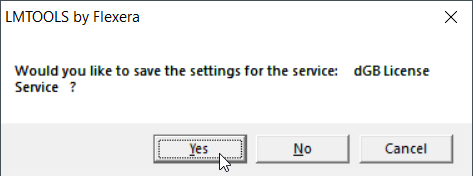
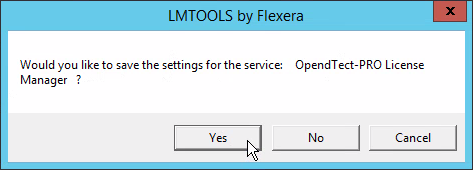
Admindoc flexnet lic server update
Updated install flexnet license server docuementation for Linux and Windows + the open ports chapter

diff --git a/admindoc/Content/Installation/License_server/Installing-license-server-on-Windows.htm b/admindoc/Content/Installation/License_server/Installing-license-server-on-Windows.htm
@@ -14,16 +14,17 @@
         <p>The FlexNet vendor package with the binaries that are needed can be downloaded from the <a href="https://dgbes.com/index.php/download/flexnet-vendors-packages" target="_blank">FlexNet Vendor Packages download page</a>.</p>
         <ol>
             <li>Download the <a href="https://download.opendtect.org/flexnet/dGB/v6.4-and-newer/flexnet11.18.3.1-dgb-win64.zip" target="_blank">Windows 64 (FlexNet v11.18.3.1) zip-file</a> for OpendTect Pro &amp; dGB&#160;Plugins for OpendTect 6.4 and newer. <br /><br /></li>
-            <li>Create a directory on the server that is to be used as license server for OpendTect. E.g. create the directory <i>C:\dgb_licserver</i>. <br /><br /></li>
+            <li>Create a directory on the server that is to be used as license server for OpendTect. E.g. create the directory <i>C:\Program Files\FlexLM Licensing Server\OpendTect</i>. <br /><br /></li>
             <li>Unzip the zip-file in the directory that has been created in previous step.<br /><br /></li>
             <li>The zip-file has the following files:<br /><b>dgbld.exe</b> :&#160;The dGB vendor daemon<br /><b>lmgrd.exe</b> :&#160;The FlexNet license  manager daemon <br /><b>lmtools.exe</b> : The FlexNet LMTOOLS utility<br /><b>lmutil.exe</b> :&#160;The FlexNet license management utilities<br /><br /></li>
-            <li>Create in the directory a new text document and name it <i>debug.log</i>.<br /><br /></li>
-            <li>The next thing that is needed is the server license file. This license file will be provided by the dGB support via support@dgbes.com.<br />Best is to place the license file in the same directory. <br /><br /></li>
-            <li>Now the license file needs to be edited. Hence, open the license file with a text editor like Notepad or Vim. <br /><br /></li>
-            <li>In the top of the license file there is a line with text <i>DAEMON dgbld full_path_to/dgbld</i> . Replace <i>fullpath_to/dgbld</i> with the path to the dgbld.exe file. In this example we will change it into:&#160;<i>DAEMON dgbld C:\dgb_licserver\dgbld.exe</i> . In case there are spaces in the path then the path should be within double-quotes. Save the license file.<br /><br /></li>
-            <li>Double-click the <i>lmtools.exe</i> file. This opens the LMTOOLS utility.<br /><MadCap:conditionalText MadCap:conditions="Default.ScreenOnly"><img src="../../Resources/Images/lmtools-0.png" /></MadCap:conditionalText><MadCap:conditionalText MadCap:conditions="Default.PrintOnly"><img src="../../Resources/Images/lmtools-0-cropped.png" style="width: 597px;height: 331px;" /></MadCap:conditionalText><br /><small>Figure:&#160;contents of the dgb_licserver directory</small><br /><br /></li>
+            <li>Ideally the log file should be written into the directory containing the lmgrd executable. Starting from FlexNet v11.17.2 this is possible on a path containing a space. If an older FlexNet version is used as license server then we advise to write the log file into folder <i>C:\ProgramData\FLEXlm\lmgrd</i>. Create this folder if it does not yet exist.<br /><br /></li>
+            <li>The next thing that is needed is the server license file. This license file will be provided by the dGB support via support@dgbes.com.<br />Best is to place the license file in the same directory as lmgrd.exe. <br /><br /></li>
+            <li>The license file needs to be edited. Hence, open the license file with a text editor like Notepad or Vim. <br /><br /></li>
+            <li>In the top of the license file there is the SERVER&#160;line. The SERVER&#160;line format is:<br /><code>SERVER host hostid [port]</code><br />For example:<br /><code>SERVER myserver 123456abcdef 27050</code><br /><br />Note that if no port is specified then the FlexNet server will listen on the first available TCP port in the range of 27000-27009. A valid port number is any unused port number in the range of 1024 to 65535. Ports below 1024 are privileged port numbers.<br /><br />Below the SERVER&#160;line is the DAEMON line. The DAEMON&#160;line format is:<br /><code>DAEMON dgbld full_path_to/dgbld [PORT=port]</code><br />For example<br /><code>DAEMON dgbld "C:\Program Files\FlexLM Licensing Server\OpendTect\dgbld.exe" port=43454</code><br /><br />It is important that you replace on the DAEMON&#160;line <i>fullpath_to/dgbld</i> with the path to the dgbld.exe file. In this example we will change it into:&#160;<i>"C:\Program Files\FlexLM Licensing Server\OpendTect\dgbld.exe"</i> . In case there are spaces in the path then the path should be within double-quotes. <br /><br />Note that if <i>port</i> is not specified then the vendor daemon will listen on an ephemeral random port at run time.  A valid port number is any unused port number in the range of 1024 to 65535. Ports below 1024 are privileged port numbers.<br /><br />Save the license file.<br /><br /></li>
+            <li>Double-click the <i>lmtools.exe</i> file. This opens the LMTOOLS utility.<br /><MadCap:conditionalText MadCap:conditions="Default.ScreenOnly"><img src="../../Resources/Images/lmtools-0.png" /></MadCap:conditionalText><MadCap:conditionalText MadCap:conditions="Default.PrintOnly"><img src="../../Resources/Images/lmtools-0.png" style="width: 520px;height: 175px;" /></MadCap:conditionalText><br /><small>Figure:&#160;contents of the FlexLM&#160;Licensing Server\OpendTect directory</small><br /><br /></li>
             <li>On <i>Service/License File</i> tab toggle on Configuration using&#160;Services and LMTOOLS ignores license file path environment variables.<br /><MadCap:conditionalText MadCap:conditions="Default.ScreenOnly"><img src="../../Resources/Images/lmtools-1.png" /></MadCap:conditionalText><MadCap:conditionalText MadCap:conditions="Default.PrintOnly"><img src="../../Resources/Images/lmtools-1.png" style="width: 669px;height: 410px;" /></MadCap:conditionalText><br /><small>Figure:&#160;LMTOOLS utility:&#160;Service/License File tab</small><br /><br /></li>
-            <li>Click the Config Services tab.<br /><br /><ol type="a"><li>At <i>Service Name</i> drop down create a new service name that will manage your OpendTect Pro &amp; dGB plugins licenses. The default service name is <i>Flexlm Service 1</i>. Best is to change this into a name like dGB License Service or OpendTect Pro License Service.<br /><br /></li><li>At <i>Path to the lmgrd.exe file</i> browse to the directory that contains the lmgrd.exe file. Select lmgrd.exe and then click button <i>Open</i>.<br /><br /></li><li>At <i>Path to the license file</i> browse to the directory that contains the license file. Select the license file and then click button <i>Open</i>.<br /><br /></li><li>At <i>Path to the debug log file</i> browse to the directory in which you created the debug.log file. Select the log file and then click button <i>Open</i>.<br /><br /></li><li>Toggle on <i>Use Services</i> and then toggle on <i>Start Server at Power Up</i>. This will make sure that the license server will start automatically at power up or reboot.<br /><MadCap:conditionalText MadCap:conditions="Default.ScreenOnly"><img src="../../Resources/Images/lmtools-2.png" /></MadCap:conditionalText><MadCap:conditionalText MadCap:conditions="Default.PrintOnly"><img src="../../Resources/Images/lmtools-2.png" style="width: 660px;height: 405px;" /></MadCap:conditionalText><br /><small>Figure:&#160;LMTOOLS utility:&#160;Config Services tab</small><br /><br /></li><li>Click button Save Service and <i>Yes</i> in the confirmation window.<br /><img src="../../Resources/Images/lmtools-3.png" /><br /><small>Figure:&#160;Save the service</small><br /><br /></li><li>LMTOOLS will show a warning window that the preferred path &lt;SystemDrive&gt;\ProgramData to store service data is not set. You get this because debug.log is not configured in the ProgramData folder. You can ignore this as we should have enough permissions to read from and write to the C:\dgb_licserver directory. <br /><img src="../../Resources/Images/lmtools-4.png" /><br /><small>Figure:&#160;Warning about Windows preferred path for service data</small><br /></li><br /></ol></li>
+            <li>Click the Config Services tab.<br /><br /><ol type="a"><li>At <i>Service Name</i> drop down create a new service name that will manage your OpendTect Pro &amp; dGB plugins licenses. The default service name is <i>Flexlm Service 1</i>. Best is to change this into a name like <i>OpendTect-PRO License Manager</i>.<br /><br /></li><li>At <i>Path to the lmgrd.exe file</i> browse to the directory that contains the lmgrd.exe file. Select lmgrd.exe and then click button <i>Open</i>.<br /><br /></li><li>At <i>Path to the license file</i> browse to the directory that contains the license file. Select the license file and then click button <i>Open</i>.<br /><br /></li><li>At <i>Path to the debug log file</i> put in the directory in which you want to write the dgbld_debug.log file. Ideally <i>C:\Program Files\FlexLM Licensing Server\OpendTect\dgbld_debug.log</i> or <i>C:\ProgramData\FLEXlm\lmgrd\dgbld_debug.log</i>.<br /><br /></li><li>Toggle on <i>Use Services</i> and then toggle on <i>Start Server at Power Up</i>. This will make sure that the license server will start automatically at power up or reboot.<br /><MadCap:conditionalText MadCap:conditions="Default.ScreenOnly"><img src="../../Resources/Images/lmtools-2.png" /></MadCap:conditionalText><MadCap:conditionalText MadCap:conditions="Default.PrintOnly"><img src="../../Resources/Images/lmtools-2.png" style="width: 625px;height: 332px;" /></MadCap:conditionalText><br /><small>Figure:&#160;LMTOOLS utility:&#160;Config Services tab</small><br /><br /></li><li>Click button Save Service and <i>Yes</i> in the confirmation window.<br /><img src="../../Resources/Images/lmtools-3.png" /><br /><small>Figure:&#160;Save the service</small><br /><br /></li><li>LMTOOLS will show a warning window if the preferred path &lt;SystemDrive&gt;\ProgramData to store service data is not set. You get this when dgbld_debug.log is not configured in the ProgramData folder. You can ignore this when there are enough permissions to read from and write to the dgbld_debug.log file. <br /><img src="../../Resources/Images/lmtools-4.png" /><br /><small>Figure:&#160;Warning about Windows preferred path for service data</small><br /></li><br /></ol></li>
+            <li>Ensure that the proper firewall exceptions are in place. There should be two exceptions (inbound application exceptions) for:<ol type="a"><li>lmgrd.exe (TCP, for the port specified in the license file)</li><li>dgbld.exe (TCP, for the port specified in the license file)</li></ol></li>
         </ol>
         <MadCap:conditionalText MadCap:conditions="Default.ScreenOnly">
             <h2>Starting a license server</h2>
@@ -39,7 +40,7 @@
             <li>Make sure that the correct license server is selected in the list. Then click button <i>Start Server</i>.<br /><MadCap:conditionalText MadCap:conditions="Default.ScreenOnly"><img src="../../Resources/Images/lmtools-5.png" /></MadCap:conditionalText><MadCap:conditionalText MadCap:conditions="Default.PrintOnly"><img src="../../Resources/Images/lmtools-5.png" style="width: 665px;height: 408px;" /></MadCap:conditionalText><br /><small>Figure:&#160;Starting dGB License Server</small><br /><br /></li>
             <li>It is possible that the Windows firewall or your virus scanner blocks dgbld.exe . If this is the case then you would want to add dgbld.exe to the list of Trusted Programs and/or Firewall Rules. After making this change click button <i>Start Server</i> again.<br /><br /></li>
             <li>If the license server start is successful LMTOOLS will show the message: <i>Server Start Successful</i>.<br /><br /></li>
-            <li>Please refer to the debug.log file in case of issues.<br /><br />This is an indication that the dgbld vendor daemon is not able to start:<br /><code>(lmgrd) License server manager (lmgrd) startup failed:<br />(lmgrd) CreateProcess error code: 0x5 File= C:\dgb_licserver\dgbld.exe<br />License server manager (lmgrd) startup failed:<br />(lmgrd) CreateProcess error code: 0x5   File= dgbld.exe</code><br /><br /></li>
+            <li>Please refer to the debug.log file in case of issues.<br /><br />This is an indication that the dgbld vendor daemon is not able to start:<br /><code>(lmgrd) License server manager (lmgrd) startup failed:<br />(lmgrd) CreateProcess error code: 0x5 File= C:\Program Files\FlexLM Licensing Server\OpendTect\dgbld.exe<br />License server manager (lmgrd) startup failed:<br />(lmgrd) CreateProcess error code: 0x5   File= dgbld.exe</code><br /><br /></li>
         </ol>
         <MadCap:conditionalText MadCap:conditions="Default.ScreenOnly">
             <h2>Client installation</h2>

diff --git a/admindoc/Content/Installation/License_server/Installing-license-server-on-Linux.htm b/admindoc/Content/Installation/License_server/Installing-license-server-on-Linux.htm
@@ -14,12 +14,13 @@
         <p>The FlexNet vendor package with the binaries that are needed can be downloaded from the <a href="https://dgbes.com/index.php/download/flexnet-vendors-packages" target="_blank">FlexNet Vendor Packages download page</a>.</p>
         <ol>
             <li>Download the <a href="https://download.opendtect.org/flexnet/dGB/v6.4-and-newer/flexnet11.18.3.1-dgb-lux64.zip" target="_blank">Linux 64 (FlexNet v11.18.3.1) zip-file</a> for OpendTect Pro &amp; dGB&#160;Plugins for OpendTect 6.4 and newer.<br /><br /></li>
-            <li>Create a directory on the server that is to be used as license server for OpendTect. E.g. <code>mkdir /opt/dgb_licserver</code><br /><br /></li>
+            <li>Create a directory on the server that is to be used as license server for OpendTect. E.g. <code>mkdir /opt/flexlm/opendtect</code><br /><br /></li>
             <li>Unzip the zip-file in the directory that has been created in previous step.<br /><br /></li>
             <li>The zip-file has the following files:<br /><b>dgbld</b> :&#160;The dGB vendor daemon<br /><b>lmgrd</b> :&#160;The FlexNet license  manager daemon <br /><b>lmutil</b> :&#160;The FlexNet license management utilities<br /><br /></li>
-            <li>The next thing that is needed is the server license file. This license file will be provided by the dGB support via support@dgbes.com.<br />Best is to place the license file in the same directory.<br /><br /></li>
-            <li>Now the license file needs to be edited. Hence, open the license file with a text editor like Vim.<br /><br /></li>
-            <li>In the top of the license file there is a line with text <i>DAEMON dgbld full_path_to/dgbld</i> . <br />Replace the fullpath_to/dgbld with the path to the dgbld file. <br />In this example we will change it into:&#160;<i>DAEMON dgbld /opt/dgb_licserver/dgbld</i> . <br />Save the license file.</li>
+            <li>The next thing that is needed is the server license file. This license file will be provided by the dGB support via support@dgbes.com.<br />Best is to place the license file in the same directory as lmgrd.<br /><br /></li>
+            <li>The license file needs to be edited. Hence, open the license file with a text editor like Vim.<br /><br /></li>
+            <li>In the top of the license file there is the SERVER&#160;line. The SERVER&#160;line format is:<br /><code>SERVER host hostid [port]</code><br />For example:<br /><code>SERVER myserver 123456abcdef 27050</code><br /><br />Note that if no port is specified then the FlexNet server will listen on the first available TCP port in the range of 27000-27009. A valid port number is any unused port number in the range of 1024 to 65535. Ports below 1024 are privileged port numbers.<br /><br />Below the SERVER&#160;line is the DAEMON line. The DAEMON&#160;line format is:<br /><code>DAEMON dgbld full_path_to/dgbld [PORT=port]</code><br />For example<br /><code>DAEMON dgbld /opt/flexlm/opendtect/dgbld port=43454</code><br /><br />It is important that you replace on the DAEMON&#160;line <i>fullpath_to/dgbld</i> with the path to the dgbld file. In this example we will change it into:&#160;<i>/opt/flexlm/opendtect/dgbld</i> . <br /><br />Note that if <i>port</i> is not specified then the vendor daemon will listen on an ephemeral random port at run time.  A valid port number is any unused port number in the range of 1024 to 65535. Ports below 1024 are privileged port numbers.<br /><br />Save the license file.</li>
+            <li>Ensure that the proper firewall exceptions are in place. There should be two exceptions for:<ol><li>The server TCP port, e.g. 27050</li><li>The vendor daemon TCP port, e.g. 43454</li></ol></li>
         </ol>
         <MadCap:conditionalText MadCap:conditions="Default.ScreenOnly">
             <h2>Starting a license server</h2>
@@ -29,9 +30,13 @@
             </p>
             <h4 style="page-break-before: avoid">Starting a license server</h4>
         </MadCap:conditionalText>
-        <p>The license server can be started by executing commands:<br /><code>cd /opt/dgb_licserver<br />./lmgrd -c licensefile.lic -l debug.log</code></p>
+        <p>The license server can be started by executing commands:<br /><code>cd /opt/flexlm/opendtect<br />./lmgrd -c licensefile.lic -l dgbld_debug.log</code></p>
         <p>Please refer to the debug.log file in case of issues.</p>
         <p>To see the license server status you may run:<br /><code>./lmutil lmstat -a</code><br />You will then see the port number the server uses, the path to the license file(s) that are in use, whether the license server is up or down, how many licenses for the features are issued and in use.</p>
+        <p>You may want to start the license server with crontab, e.g. add line (with crontab -e):<br /><code>@reboot /opt/flexlm/opendtect/lmgrd -c /opt/flexlm/opendtect/licensefile.lic -l /opt/flexlm/opendtect/dgbld_debug.log</code></p>
+        <p>
+            <br />
+        </p>
         <MadCap:conditionalText MadCap:conditions="Default.ScreenOnly">
             <h2>Error messages</h2>
         </MadCap:conditionalText>

diff --git a/admindoc/Content/Installation/OpendTect/Firewall-Rules-and-Open-Ports.htm b/admindoc/Content/Installation/OpendTect/Firewall-Rules-and-Open-Ports.htm
@@ -38,7 +38,7 @@
             </p>
             <h4 style="page-break-before: avoid">Open Ports</h4>
         </MadCap:conditionalText>
-        <p>OpendTect will need to open TCP ports on the localhost for Batch Processing and Machine Learning. Here is a list of ports that OpendTect needs to open if you run a certain job:</p>
+        <p>OpendTect will need open TCP ports on the localhost for Batch Processing and Machine Learning. Here is a list of ports that OpendTect needs to open if you run a certain job:</p>
         <table style="width: 100%; margin: 20px;" class="noborders">
             <col style="width: 138px;" />
             <col style="width: 80%;" />
@@ -52,22 +52,37 @@
                     <td style="border: 0px;">Is used by executable od_remoteservice, which needs to be started on the compute node before job is submitted to it, but only when the job is started from Windows.</td>
                 </tr>
                 <tr style="border: 0px;">
-                    <td style="border: 0px;">20050-20080</td>
+                    <td style="border: 0px;">20050 - 20080</td>
                     <td style="border: 0px;">
                         Starting from OpendTect 6.6 these ports are used for communication between OpendTect and Python, starting at port 20050. <br />We advise to have a broad range to be open, e.g. until 20080.
                     </td>
                 </tr>
                 <tr style="border: 0px;">
-                    <td style="border: 0px;">27000</td>
-                    <td style="border: 0px;">Port 27000 is the default port for the FlexNet license server. It only needs to be opened on the server that runs the FlexNet license server.<br />It is possible to let the license server listen on a different port, e.g. on 27010. Usually dgbld and arkclsld will listen on a random port, it is possible to set this to a static port. <br /></td>
-                </tr>
-                <tr style="border: 0px;">
-                    <td style="border: 0px;">37500-37504</td>
+                    <td style="border: 0px;">37500 - 37504</td>
                     <td style="border: 0px;">Ports used for the Distributed Computing, starting at port 37500. We advise to have a port range size of 5 open. <br />That allows a user to start several Distributed Computing jobs from the same client machine.</td>
                 </tr>
                 <tr style="border: 0px;">
                     <td style="border: 0px;">57375</td>
                     <td style="border: 0px;">Is used for the OpendTect Petrel* plugin access.</td>
+                </tr>
+            </tbody>
+        </table>
+        <p>When using the FlexNet license server for the OpendTect license(s) it will need open ports for the license server and vendor daemon(s). Here is a list of ports that need to be open on the server that is running the FlexNet license server:</p>
+        <table style="width: 100%; margin: 20px;" class="noborders">
+            <col style="width: 138px;" />
+            <col style="width: 80%;" />
+            <tbody>
+                <tr style="border: 0px;">
+                    <td style="font-weight: bold; border: 0px;">Ports</td>
+                    <td style="font-weight: bold; border: 0px;">Description</td>
+                </tr>
+                <tr style="border: 0px;">
+                    <td style="border: 0px;">27000 - 27009<br />or<br />specified port</td>
+                    <td style="border: 0px;">If no TCP&#160;port is specified in the license file the FlexNet license server will use an unused port in the range of 27000 - 27009.<br /></td>
+                </tr>
+                <tr style="border: 0px;">
+                    <td style="border: 0px;">random ephemeral port<br />or<br />specified port<br /></td>
+                    <td style="border: 0px;">If no TCP port is specified in the license file the dgbld and arkclsld vendor daemons will listen on an ephemeral random port.</td>
                 </tr>
             </tbody>
         </table>
